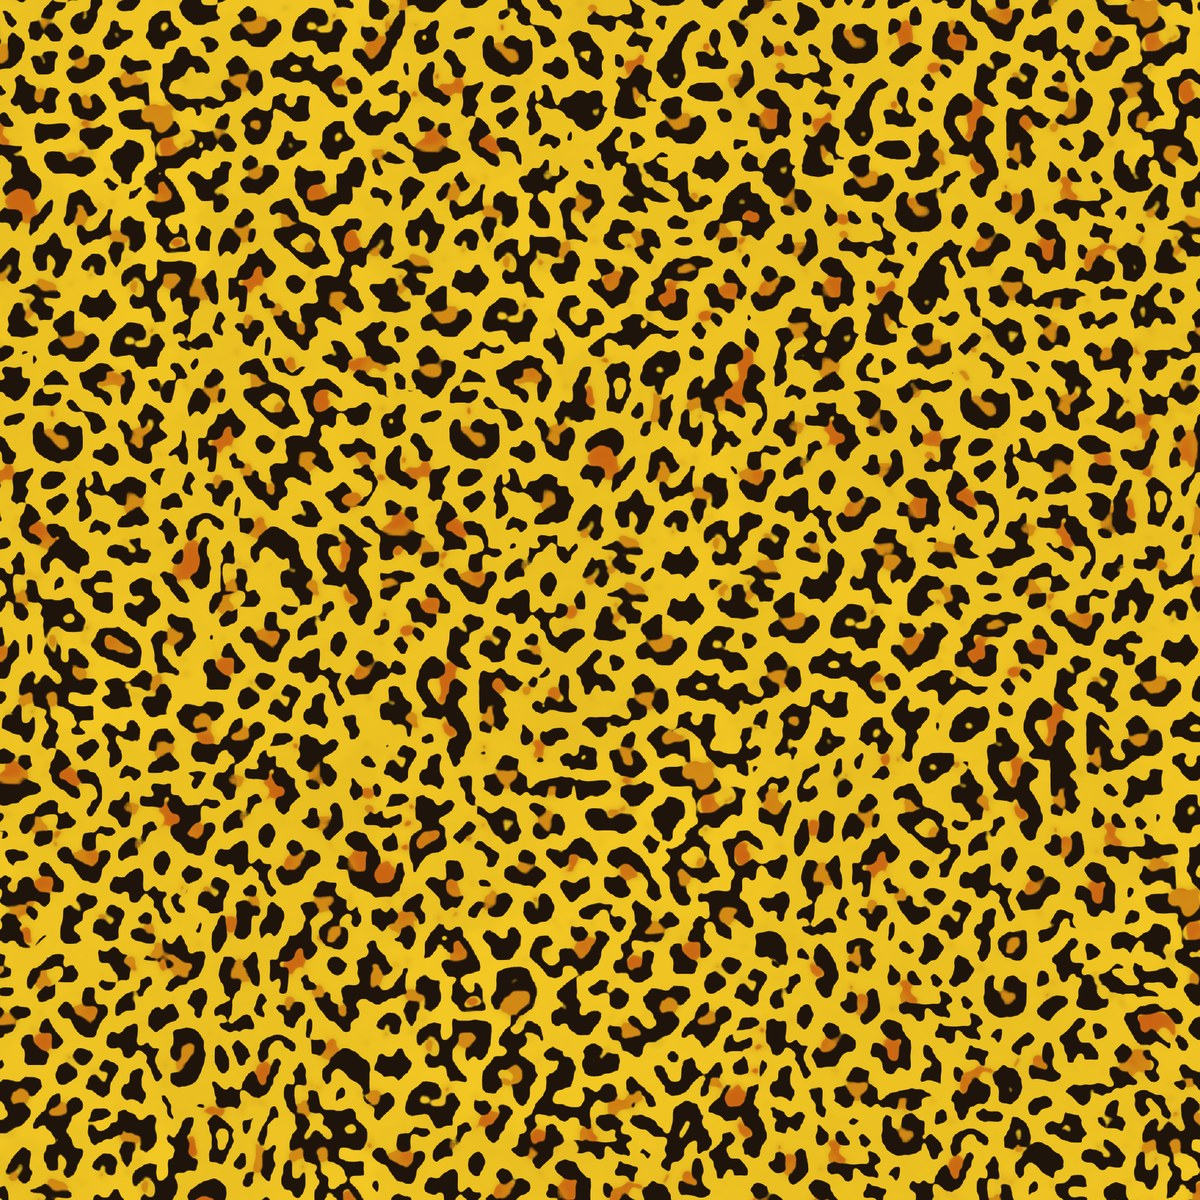
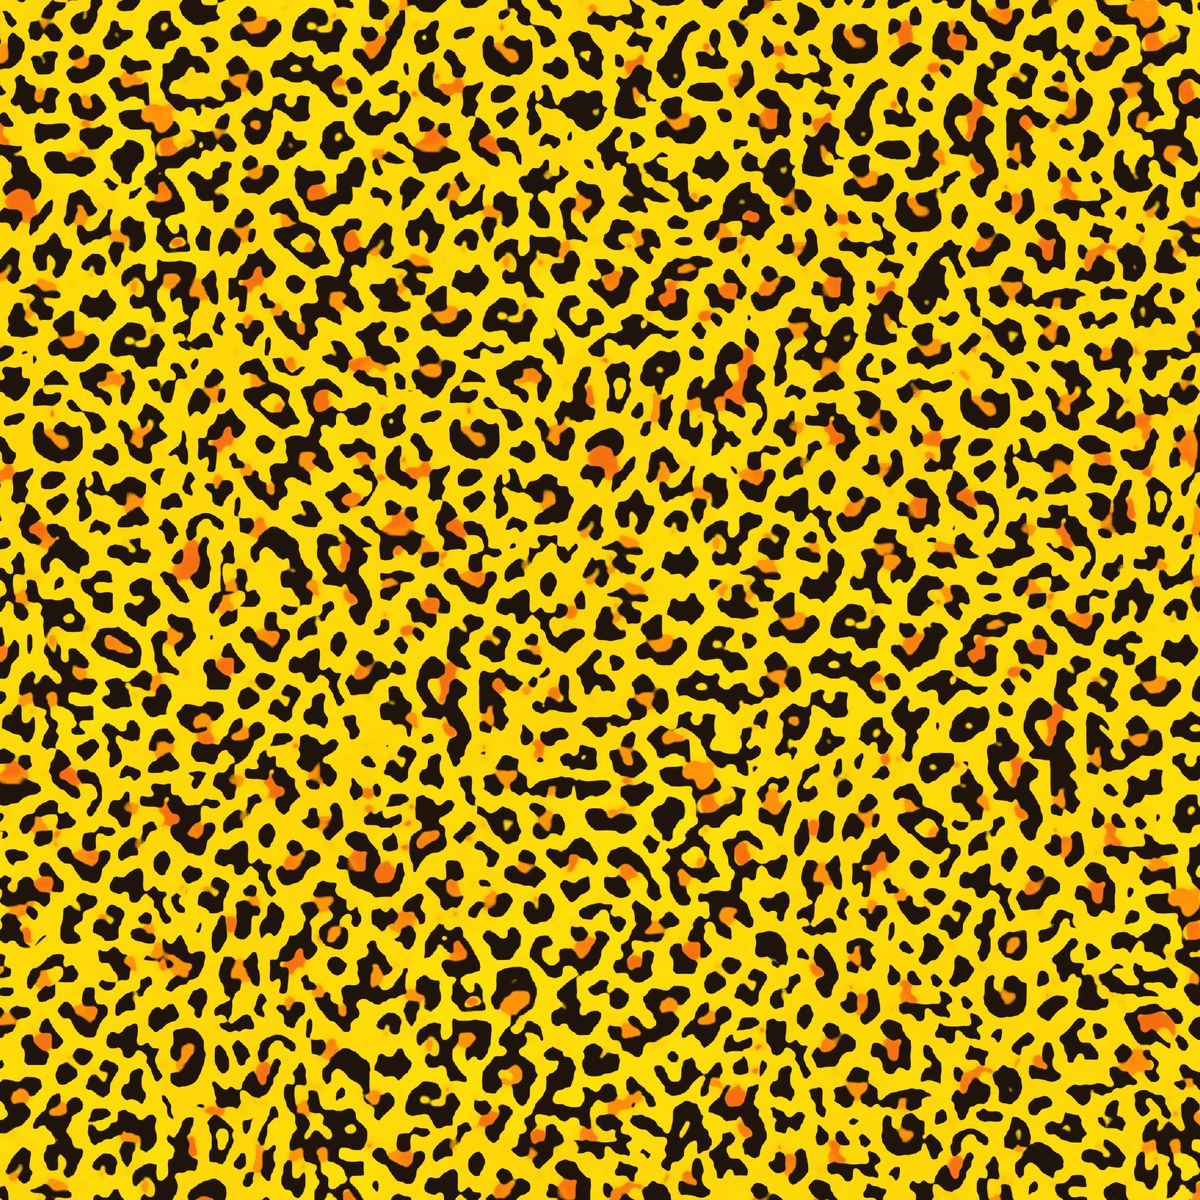
Cheetah: brighter sun yellow ground
Claude-Session: https://claude.ai/code/session_01P5ZP1oAwc5qyL7BEtYjUBD

diff --git a/config.js b/config.js
@@ -36,8 +36,8 @@ window.SITE = {
       img: "cheetah",
       name: "Cheetah",
       kicker: "Big cat, edge to edge",
-      blurb: "Classic big-cat rosettes in neon yellow, wrapped around the whole vest from zipper to side seams. Quiet it is not.",
-      glow: "#EAC224",
+      blurb: "Classic big-cat rosettes in sun yellow, wrapped around the whole vest from zipper to side seams. Quiet it is not.",
+      glow: "#FFD60A",
     },
     {
       id: "usa96",
